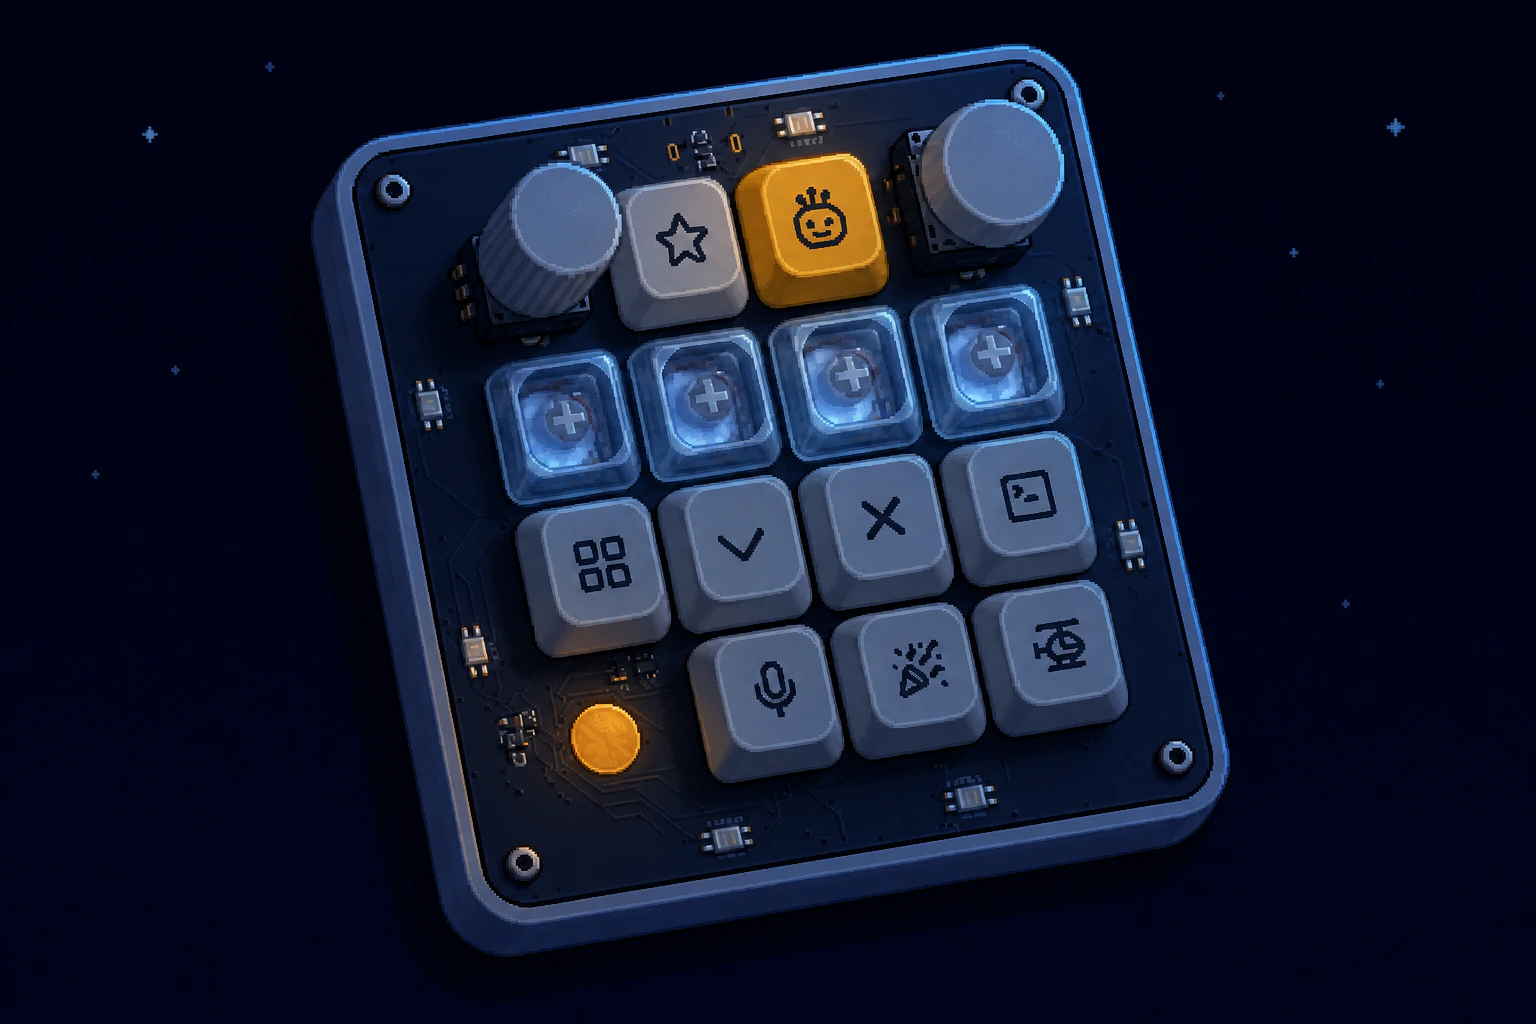
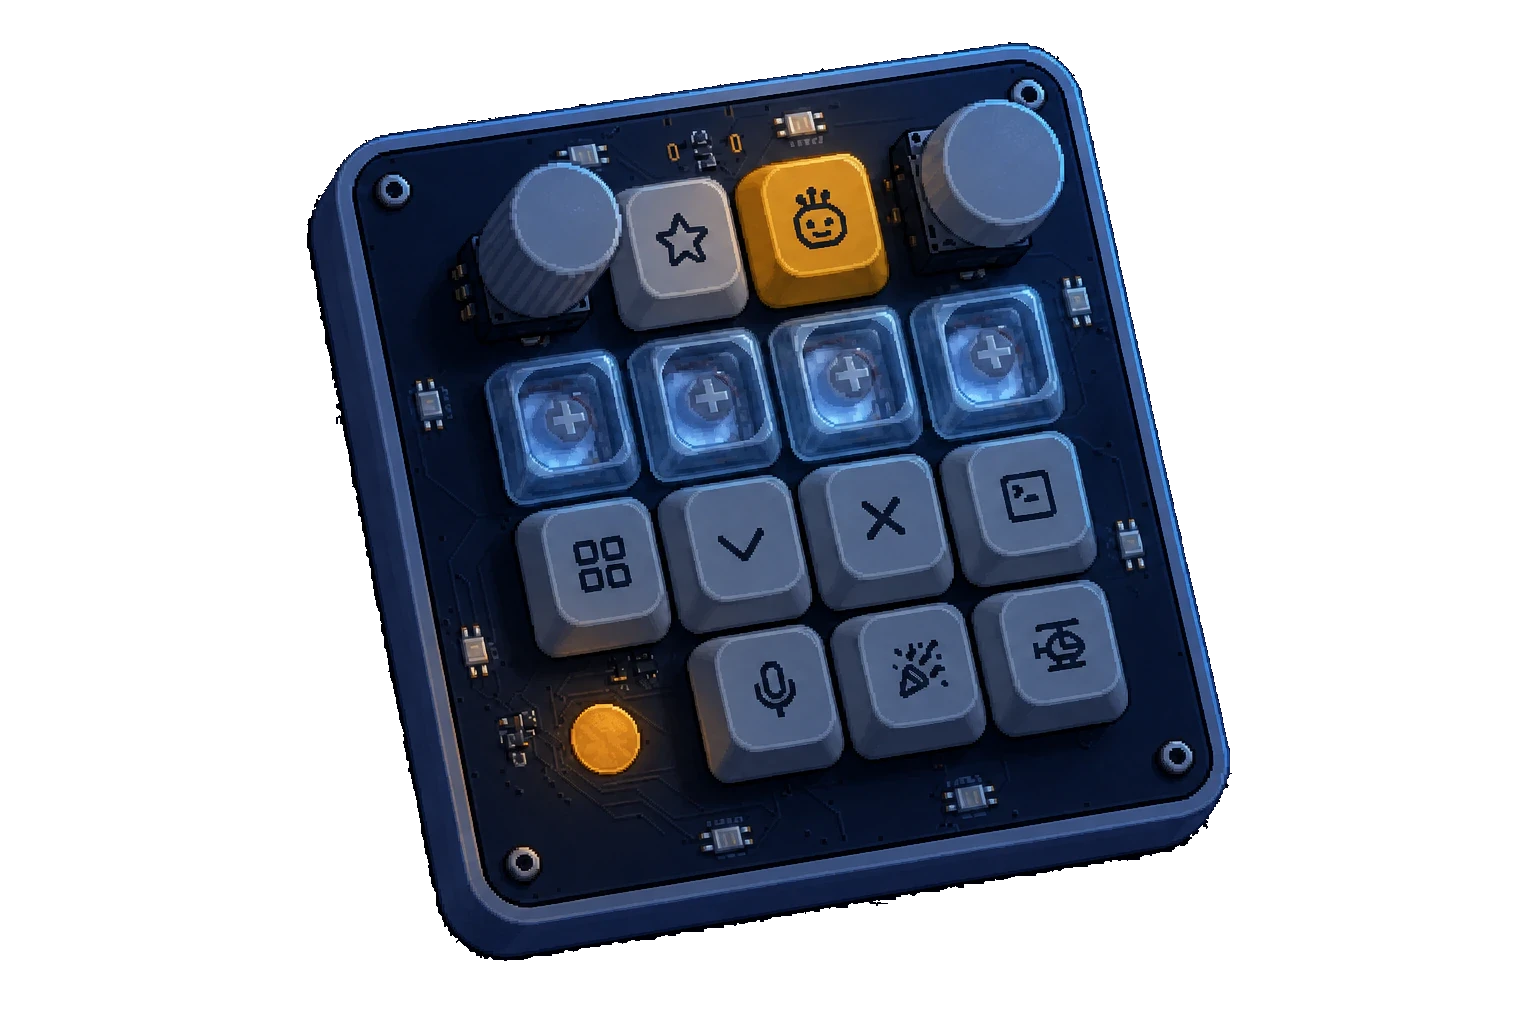
site: cut the hero illustrations out of their backdrop
The hero keyboards sat on a flat studio backdrop that read as a rectangular
card against the sky. Both are now transparent PNG-alpha WebP, so the art
floats and .hero__art-frame's drop-shadow traces the keyboard's own
silhouette instead of a box — which also retires the rectangular ground
shadow that stood in for the card.

A plain colour key could not do this: the day case's lit cream sits ~15 RGB
units from the backdrop cream, closer than the baked drop shadow at ~55-70,
so any tolerance wide enough to remove the shadow ate the case. site/tools/
cutout_hero.py instead floods inward from the border, and only lets the
flood cross a pixel that is backdrop-coloured or a warm-darkened version of
it (the shadow's blue channel falls faster than its red; the case is
neutral-to-cool). Stars left stranded in the night backdrop are dropped as
isolated islands.

Both files came out smaller than the opaque originals.

diff --git a/site/public/css/style.css b/site/public/css/style.css
@@ -461,12 +461,9 @@ html[data-theme="night"] .hero__stats b { color: var(--sun); }
 }
 @keyframes bob { 0%,100% { transform: translateY(0) rotate(-.4deg); } 50% { transform: translateY(-14px) rotate(.4deg); } }
 .hero__art-frame .swap-img { width: 100%; height: auto; }
-.hero__art-shadow {
-  display: block; margin: 14px auto 0; width: 62%; height: 14px;
-  background: rgba(58,36,24,.16);
-  animation: shadowPulse 5.5s ease-in-out infinite;
-}
-@keyframes shadowPulse { 0%,100% { transform: scaleX(1); opacity: .5; } 50% { transform: scaleX(.86); opacity: .3; } }
+/* The hero art is a cut-out PNG, so .hero__art-frame's drop-shadow traces the
+   keyboard's own silhouette — the old rectangular ground-shadow bar that stood
+   in for a card is gone with it. */
 
 /* stacked day/night image crossfade */
 .swap-img { transition: opacity var(--t-theme) var(--ease); }

diff --git a/site/public/index.html b/site/public/index.html
@@ -145,7 +145,6 @@
         <img class="swap-img swap-img--day" src="/assets/hero_keyboard_day.webp" alt="Pixel-art illustration of the OpenMicroKbd macro pad in warm daylight" width="1536" height="1024" fetchpriority="high" />
         <img class="swap-img swap-img--night" src="/assets/hero_keyboard_night.webp" alt="" aria-hidden="true" width="1536" height="1024" />
       </div>
-      <span class="hero__art-shadow" aria-hidden="true"></span>
     </div>
   </div>
 

diff --git a/site/tools/cutout_hero.py b/site/tools/cutout_hero.py
@@ -1,0 +1,121 @@
+#!/usr/bin/env python3
+"""Knock the flat backdrop out of the hero illustrations.
+
+Both hero images are keyboards sitting on a flat studio backdrop. A plain
+colour key cannot separate them: in the day image the case's lit cream sits
+only ~15 RGB units from the backdrop cream, so any tolerance wide enough to
+swallow the baked drop shadow (~55-70 units away) also eats the case.
+
+Two things make the separation reliable instead:
+
+  * Reachability. Removal floods inward from the border, so a colour is only
+    deleted when a path of removable pixels connects it to the outside. The
+    case survives because the flood has to cross it to get there.
+  * Chroma. The drop shadow is the backdrop darkened *warmly* — its blue
+    channel falls faster than its red — while the case is neutral-to-cool.
+    Normalising each channel against the backdrop separates them cleanly
+    (shadow ~0.85, case ~1.0-1.11), so the flood may pass through shadow
+    without being allowed into the case.
+
+Isolated specks left behind (the night sky's stars) are dropped afterwards by
+keeping only the one large component the keyboard forms.
+
+    python3 site/tools/cutout_hero.py in.webp out.png [--shadow]
+"""
+import sys
+
+import numpy as np
+from PIL import Image
+from scipy import ndimage
+
+# Backdrop match tolerance, in RGB units. The backdrops are near-uniform (a few
+# units of noise), so this stays tight enough to exclude the day case's lit
+# cream at ~15 units.
+BACKDROP_TOLERANCE = 11.0
+
+# How far from the backdrop a warm-darkened pixel may sit and still count as
+# drop shadow rather than product.
+SHADOW_MAX_DISTANCE = 95.0
+
+# Blue-vs-red ratio (both normalised against the backdrop) below which a
+# darker pixel reads as warm shadow rather than neutral casework.
+SHADOW_CHROMA_RATIO = 0.95
+
+# Opaque islands smaller than this fraction of the main subject are debris.
+ISLAND_FRACTION = 0.02
+
+
+def backdrop_colour(rgb: np.ndarray) -> np.ndarray:
+    """Median of the four corner patches — robust to a star or a stray speck."""
+    h, w, _ = rgb.shape
+    k = 24
+    corners = np.concatenate([
+        rgb[:k, :k].reshape(-1, 3),
+        rgb[:k, w - k:].reshape(-1, 3),
+        rgb[h - k:, :k].reshape(-1, 3),
+        rgb[h - k:, w - k:].reshape(-1, 3),
+    ])
+    return np.median(corners, axis=0)
+
+
+def removable_mask(rgb: np.ndarray, bg: np.ndarray, drop_shadow: bool) -> np.ndarray:
+    """Pixels the flood is *allowed* to delete, before reachability is applied."""
+    dist = np.linalg.norm(rgb - bg, axis=2)
+    allowed = dist <= BACKDROP_TOLERANCE
+
+    if drop_shadow:
+        safe = np.maximum(bg, 1.0)
+        norm = rgb / safe                       # per-channel, relative to backdrop
+        with np.errstate(divide="ignore", invalid="ignore"):
+            chroma = np.where(norm[..., 0] > 0.01, norm[..., 2] / norm[..., 0], 1.0)
+        darker = rgb.sum(axis=2) < bg.sum()
+        allowed |= (dist <= SHADOW_MAX_DISTANCE) & (chroma <= SHADOW_CHROMA_RATIO) & darker
+
+    return allowed
+
+
+def flood_from_border(allowed: np.ndarray) -> np.ndarray:
+    """Removable pixels connected to the image border."""
+    labels, count = ndimage.label(allowed)
+    if count == 0:
+        return np.zeros_like(allowed)
+    edge = np.concatenate([labels[0, :], labels[-1, :], labels[:, 0], labels[:, -1]])
+    touching = set(int(v) for v in np.unique(edge) if v)
+    return np.isin(labels, list(touching)) if touching else np.zeros_like(allowed)
+
+
+def drop_islands(opaque: np.ndarray) -> np.ndarray:
+    """Keep the subject; discard specks such as background stars."""
+    labels, count = ndimage.label(opaque)
+    if count <= 1:
+        return opaque
+    sizes = ndimage.sum(opaque, labels, range(1, count + 1))
+    keep = [i + 1 for i, s in enumerate(sizes) if s >= sizes.max() * ISLAND_FRACTION]
+    dropped = count - len(keep)
+    if dropped:
+        print(f"  dropped {dropped} isolated island(s)")
+    return np.isin(labels, keep)
+
+
+def main() -> int:
+    src, dst = sys.argv[1], sys.argv[2]
+    drop_shadow = "--shadow" in sys.argv[3:]
+
+    image = Image.open(src).convert("RGB")
+    rgb = np.asarray(image).astype(np.float64)
+
+    bg = backdrop_colour(rgb)
+    allowed = removable_mask(rgb, bg, drop_shadow)
+    background = flood_from_border(allowed)
+    opaque = drop_islands(~background)
+
+    out = np.dstack([np.asarray(image), np.where(opaque, 255, 0).astype(np.uint8)])
+    Image.fromarray(out, "RGBA").save(dst)
+
+    pct = 100.0 * (1.0 - opaque.mean())
+    print(f"  backdrop rgb({int(bg[0])},{int(bg[1])},{int(bg[2])}) -> {pct:.1f}% transparent")
+    return 0
+
+
+if __name__ == "__main__":
+    raise SystemExit(main())
